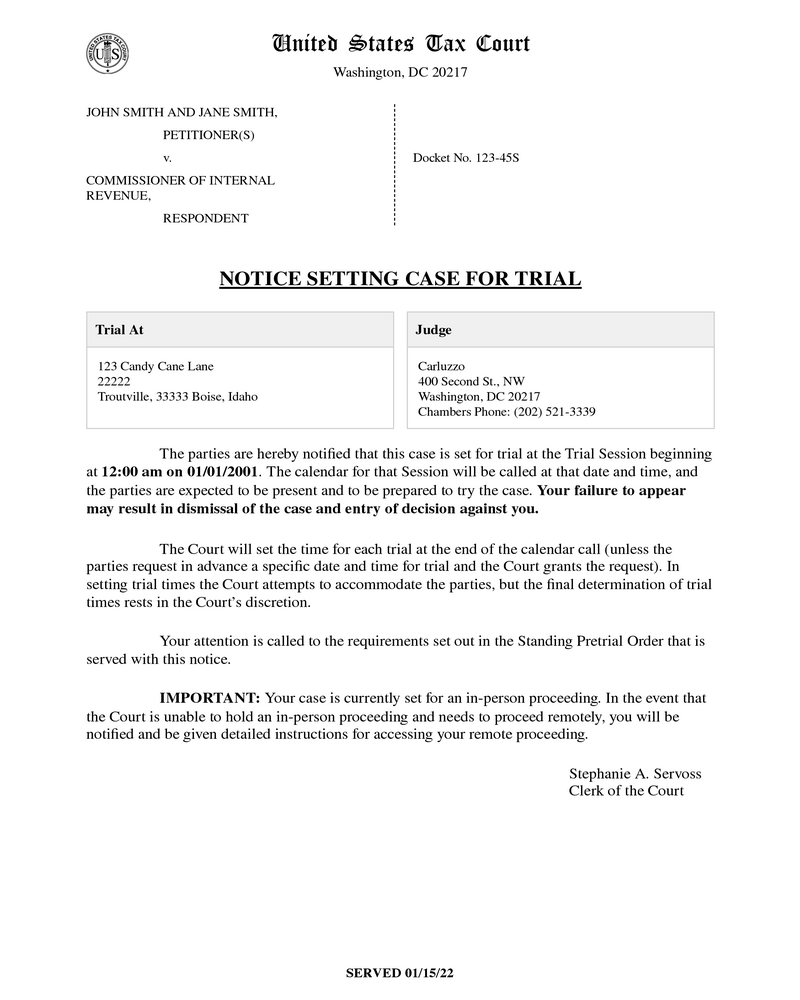
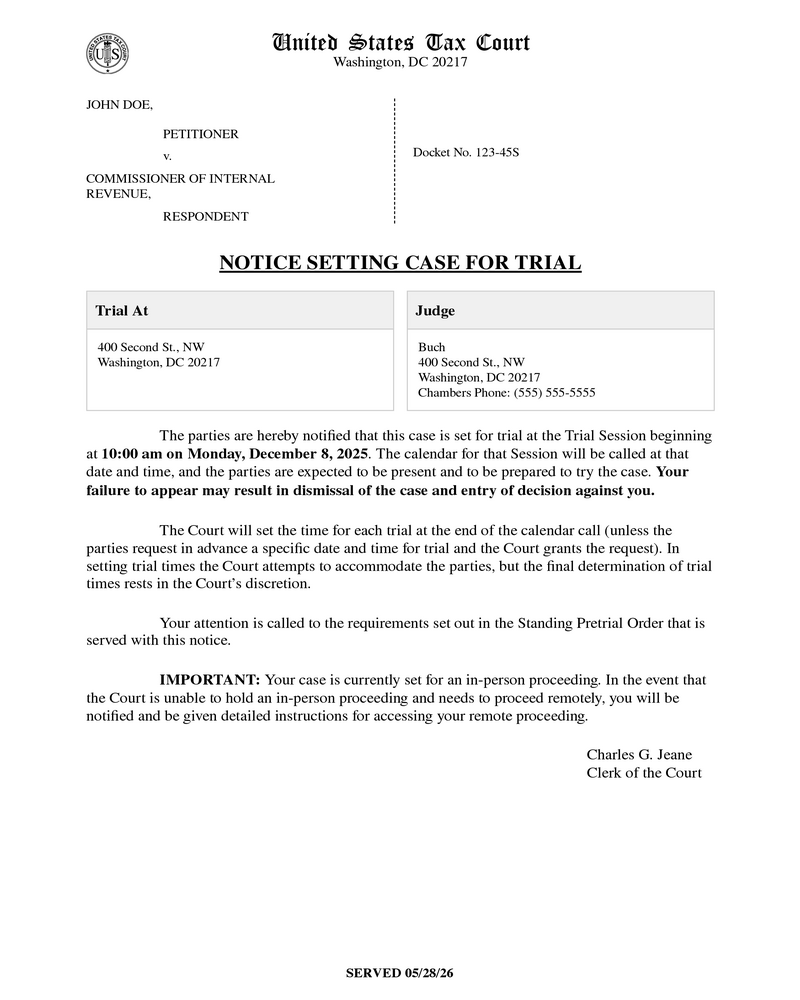
10076: more spacing remote version

diff --git a/shared/src/business/utilities/documentGenerators/noticeOfTrialIssuedInPerson.test.ts b/shared/src/business/utilities/documentGenerators/noticeOfTrialIssuedInPerson.test.ts
@@ -12,25 +12,27 @@ describe('noticeOfTrialIssuedInPerson', () => {
   generateAndVerifyPdfDiff({
     fileName: 'Notice_Trial_Issued_In_Person.pdf',
     pageNumber: 1,
-    pdfGenerateFunction: () =>
-      noticeOfTrialIssuedInPerson({
+    pdfGenerateFunction: () => {
+      applicationContext.getUtilities().formatNow = () => '05/28/26';
+
+      return noticeOfTrialIssuedInPerson({
         applicationContext,
         data: {
-          caseCaptionExtension: 'Petitioner(s)',
-          caseTitle: 'John Smith and Jane Smith',
+          caseCaptionExtension: 'Petitioner',
+          caseTitle: 'John Doe',
           docketNumberWithSuffix: '123-45S',
-          nameOfClerk: 'Stephanie A. Servoss',
+          nameOfClerk: 'Charles G. Jeane',
           titleOfClerk: 'Clerk of the Court',
           trialInfo: {
-            address1: '123 Candy Cane Lane',
-            address2: '22222',
-            city: 'Troutville',
-            formattedJudge: 'Carluzzo',
-            chambersPhoneNumber: '(202) 521-3339',
-            formattedStartDate: '01/01/2001',
-            formattedStartTime: '12:00 am',
-            postalCode: 'Boise, Idaho',
-            state: '33333',
+            address1: '400 Second St., NW',
+            address2: '',
+            city: 'Washington',
+            formattedJudge: 'Buch',
+            chambersPhoneNumber: '(555) 555-5555',
+            formattedStartDate: 'Monday, December 8, 2025',
+            formattedStartTime: '10:00 am',
+            postalCode: '20217',
+            state: 'DC',
             trialLocation: 'Birmingham, Alabama',
             caseOrder: [],
             isCalendared: true,
@@ -38,15 +40,16 @@ describe('noticeOfTrialIssuedInPerson', () => {
             sessionScope: TRIAL_SESSION_SCOPE_TYPES.locationBased,
             sessionStatus: SESSION_STATUS_TYPES.new,
             sessionType: SESSION_TYPES.regular,
-            startDate: '2001-01-01T00:00:00Z',
-            term: 'Winter',
-            termYear: '2001',
+            startDate: '2025-12-08T00:00:00Z',
+            term: 'Fall',
+            termYear: '2025',
             trialSessionId: '111-111-112',
             paperServicePdfs: [],
             hasNottBeenServed: false,
           },
         },
-      }),
+      });
+    },
     testDescription: 'generates a Notice of Trial Issued document',
   });
 });

diff --git a/shared/src/business/utilities/documentGenerators/noticeOfTrialIssued.test.ts b/shared/src/business/utilities/documentGenerators/noticeOfTrialIssued.test.ts
@@ -8,35 +8,37 @@ describe('documentGenerators', () => {
     fileName: 'Notice_Trial_Issued.pdf',
     pageNumber: 1,
     pdfGenerateFunction: () => {
+      applicationContext.getUtilities().formatNow = () => '05/28/26';
+
       return noticeOfTrialIssued({
         applicationContext,
         data: {
-          caseCaptionExtension: 'Petitioner(s)',
-          caseTitle: 'John Smith and Jane Smith',
+          caseCaptionExtension: 'Petitioner',
+          caseTitle: 'John Doe',
           docketNumberWithSuffix: '123-45S',
-          nameOfClerk: 'Stephanie A. Servoss',
+          nameOfClerk: 'Charles G. Jeane',
           titleOfClerk: 'Clerk of the Court',
           trialInfo: {
-            formattedJudge: 'Carluzzo',
-            formattedStartDate: '01/01/2001',
-            formattedStartTime: '12:00 am',
-            joinPhoneNumber: '(444) 444-4444',
-            meetingId: 'sdsd',
-            password: '123',
+            formattedJudge: 'Buch',
+            formattedStartDate: 'Monday, December 8, 2025',
+            formattedStartTime: '10:00 am',
+            joinPhoneNumber: '(202) 521-4611',
+            meetingId: '123456',
+            password: '22222',
             trialLocation: 'Birmingham, Alabama',
-            startDate: '2001-01-01T05:00:00.000Z',
-            startTime: '2001-01-01T05:00:00.000Z',
-            judge: { name: 'Carluzzo', userId: '123' },
-            chambersPhoneNumber: '(202) 521-3339',
+            startDate: '2025-12-08T05:00:00.000Z',
+            startTime: '2025-12-08T10:00:00.000Z',
+            judge: { name: 'Buch', userId: '123' },
+            chambersPhoneNumber: '(555) 555-5555',
             caseOrder: [],
             hasNottBeenServed: false,
             isCalendared: true,
-            proceedingType: 'In Person' as const,
+            proceedingType: 'Remote' as const,
             sessionType: 'Regular',
             sessionStatus: 'Scheduled',
             sessionScope: TRIAL_SESSION_SCOPE_TYPES.standaloneRemote,
             term: 'Fall',
-            termYear: '2020',
+            termYear: '2025',
             trialSessionId: '123',
             paperServicePdfs: [],
           },

diff --git a/shared/src/business/utilities/htmlGenerator/documents/notice-of-trial-issued.scss b/shared/src/business/utilities/htmlGenerator/documents/notice-of-trial-issued.scss
@@ -29,10 +29,11 @@ body:has(#notice-of-trial-pdf) {
       margin-bottom: 0;
       font-size: 14pt;
       font-weight: normal;
+      line-height: 1;
     }
 
     .court-address {
-      margin-top: 10pt;
+      margin-top: calc(10pt - 10px);
       font-size: 11pt;
       line-height: 12pt;
     }
@@ -46,9 +47,15 @@ body:has(#notice-of-trial-pdf) {
       #caption-title {
         margin-top: 0;
         margin-bottom: 0;
+        line-height: 10pt;
       }
 
-      #caption-extension,
+      #caption-extension {
+        line-height: 10pt;
+        margin-top: 17px;
+        margin-bottom: 0;
+      }
+
       #caption-v,
       #caption-respondent {
         margin-top: 6pt;
@@ -69,7 +76,7 @@ body:has(#notice-of-trial-pdf) {
 
     .document-title {
       padding: 0;
-      margin: 34pt 0 0 0;
+      margin: 23pt 0 0 0;
       font-size: 16pt;
       line-height: 1;
     }
@@ -79,7 +86,7 @@ body:has(#notice-of-trial-pdf) {
     display: flex;
     align-items: stretch;
     padding-top: 0;
-    margin-top: 18pt;
+    margin-top: 14pt;
 
     .info-box {
       margin: 0 0 12pt 0;
@@ -125,6 +132,13 @@ body:has(#notice-of-trial-pdf) {
       line-height: 14pt;
     }
 
+    a {
+      color: #0050d8;
+      -webkit-print-color-adjust: exact;
+      print-color-adjust: exact;
+      text-decoration: underline;
+    }
+
     .notice-body-indent {
       margin-bottom: 17pt;
       text-indent: 56pt;
@@ -155,6 +169,10 @@ body:has(#notice-of-trial-pdf) {
         .notice-body-indent {
           margin-bottom: 10pt;
         }
+
+        .notice-meeting-info {
+          margin-bottom: calc(10pt + 6px);
+        }
       }
 
       .notice-remote-closing {
@@ -163,7 +181,7 @@ body:has(#notice-of-trial-pdf) {
         }
 
         #notice-clerk-signature {
-          margin-top: 8pt;
+          margin-top: calc(8pt + 13px);
         }
       }
     }

diff --git a/shared/src/business/utilities/pdfGenerator/documentTemplates/NoticeOfTrialIssued.tsx b/shared/src/business/utilities/pdfGenerator/documentTemplates/NoticeOfTrialIssued.tsx
@@ -68,19 +68,23 @@ export const NoticeOfTrialIssued = ({
           <p className="notice-body-indent text-underline">
             ACCESS REMOTE PROCEEDING
           </p>
-          <p className="notice-body-indent">
-            Your Meeting ID and Passcode for the remote proceeding are:
-          </p>
-          <p className="notice-body-indent">
+          <p className="notice-body-indent notice-meeting-info">
             <span className="text-bold">Meeting ID:</span> {trialInfo.meetingId}{' '}
             <span className="text-bold">Passcode:</span> {trialInfo.password}
           </p>
 
           <p className="notice-body-indent">
             Join online: Go to{' '}
-            <span className="text-bold">www.zoomgov.com</span> and click
-            &apos;Join&apos;. Enter the Meeting ID and Passcode above when
-            prompted.
+            <a
+              href="https://www.zoomgov.com"
+              rel="noreferrer"
+              style={{ color: '#0050d8', textDecoration: 'underline' }}
+              target="_blank"
+            >
+              www.zoomgov.com
+            </a>{' '}
+            and click &apos;Join&apos;. Enter the Meeting ID and Passcode above
+            when prompted.
           </p>
 
           <p className="notice-body-indent">
